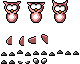
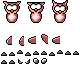
Double 'jump'

Changed region(s): [[0.65, 0.5625, 0.75, 0.6875], [0.35, 0.9062, 0.375, 0.9688], [0.225, 0.9062, 0.25, 0.9688]]

diff --git a/output/src/player.js b/output/src/player.js
@@ -20,12 +20,13 @@ var Player = /** @class */ (function (_super) {
     __extends(Player, _super);
     function Player(x, y) {
         var _this = _super.call(this, x, y) || this;
-        _this.friction = new Vector2(0.15, 0.15);
+        _this.friction = new Vector2(0.125, 0.125);
         _this.hitbox = new Vector2(16, 16);
-        _this.collisionBox = new Vector2(16, 16);
+        _this.collisionBox = new Vector2(12, 16);
         _this.center = new Vector2();
         _this.inCamera = true;
         _this.canJump = false;
+        _this.doubleJump = false;
         _this.jumpTimer = 0;
         _this.jumpMargin = 0;
         _this.sprBody = new Sprite(24, 24);
@@ -35,14 +36,21 @@ var Player = /** @class */ (function (_super) {
         return _this;
     }
     Player.prototype.control = function (ev) {
-        var BASE_GRAVITY = 4.0;
-        var BASE_SPEED = 1.5;
+        var BASE_GRAVITY = 3.0;
+        var BASE_SPEED = 1.25;
         var JUMP_TIME = 15;
+        var DJUMP_TIME = 60;
         this.target.x = ev.getStick().x * BASE_SPEED;
         this.target.y = BASE_GRAVITY;
         var s = ev.getAction("fire1");
-        if (this.jumpMargin > 0 && s == State.Pressed) {
-            this.jumpTimer = JUMP_TIME;
+        var canDoDoubleJump = this.jumpMargin <= 0 && !this.doubleJump;
+        if ((this.jumpMargin > 0 || canDoDoubleJump) &&
+            s == State.Pressed) {
+            this.jumpTimer = canDoDoubleJump ? DJUMP_TIME : JUMP_TIME;
+            if (canDoDoubleJump) {
+                this.speed.y = Math.max(this.speed.y, 0);
+                this.doubleJump = true;
+            }
         }
         else if (this.jumpTimer > 0 && (s & State.DownOrPressed) == 0) {
             this.jumpTimer = 0;
@@ -63,8 +71,6 @@ var Player = /** @class */ (function (_super) {
         if (Math.abs(this.speed.x) >= 0.5) {
             this.eyePos.x = Math.sign(this.speed.x);
         }
-        // TEMP
-        this.sprWing.setFrame(0, 1);
         if (this.canJump) {
             if (Math.abs(this.speed.x) > EPS) {
                 speed = 10 - Math.abs(this.speed.x) * 4;
@@ -85,18 +91,28 @@ var Player = /** @class */ (function (_super) {
                 wingFrame = this.speed.y < 0 ? 1 : 3;
             }
             this.sprBody.setFrame(bodyFrame, 0);
-            this.sprWing.setFrame(wingFrame, 1);
             this.sprFeet.setFrame(bodyFrame, 7);
+            if (!this.doubleJump || this.jumpTimer <= 0) {
+                this.sprWing.setFrame(wingFrame, 1);
+            }
+            else {
+                this.sprWing.animate(1, 1, 4, 4, ev.step);
+            }
         }
     };
     Player.prototype.updateTimers = function (ev) {
-        var JUMP_SPEED = -3.0;
+        var JUMP_SPEED = -2.5;
+        var DOUBLE_JUMP_SPEED = -0.225;
+        var DOUBLE_JUMP_MIN_SPEED = -1.5;
         if (this.jumpMargin > 0) {
             this.jumpMargin -= ev.step;
         }
         if (this.jumpTimer > 0) {
             this.jumpTimer -= ev.step;
-            this.speed.y = JUMP_SPEED;
+            if (this.doubleJump)
+                this.speed.y = Math.max(DOUBLE_JUMP_MIN_SPEED, this.speed.y + DOUBLE_JUMP_SPEED * ev.step);
+            else
+                this.speed.y = JUMP_SPEED;
         }
     };
     Player.prototype.updateLogic = function (ev) {
@@ -125,9 +141,11 @@ var Player = /** @class */ (function (_super) {
         c.fillRect(px + 1, py - 9, 2, 2);
     };
     Player.prototype.slopeCollisionEvent = function (dir, friction, ev) {
-        var JUMP_MARGIN = 10;
+        var JUMP_MARGIN = 12;
         if (dir > 0) {
             this.canJump = true;
+            this.jumpTimer = 0;
+            this.doubleJump = false;
             this.jumpMargin = JUMP_MARGIN;
             this.slopeFriction = friction;
         }

diff --git a/src/player.ts b/src/player.ts
@@ -10,6 +10,7 @@ export class Player extends CollisionObject {
 
 
     private canJump : boolean;
+    private doubleJump : boolean;
     private jumpTimer : number;
     private jumpMargin : number;
 
@@ -25,13 +26,14 @@ export class Player extends CollisionObject {
 
         super(x, y);
 
-        this.friction = new Vector2(0.15, 0.15);
+        this.friction = new Vector2(0.125, 0.125);
         this.hitbox = new Vector2(16, 16);
-        this.collisionBox = new Vector2(16, 16);
+        this.collisionBox = new Vector2(12, 16);
         this.center = new Vector2();
 
         this.inCamera = true;
         this.canJump = false;
+        this.doubleJump = false;
         this.jumpTimer = 0;
         this.jumpMargin = 0;
 
@@ -44,17 +46,27 @@ export class Player extends CollisionObject {
     
     private control(ev : GameEvent) {
 
-        const BASE_GRAVITY = 4.0;
-        const BASE_SPEED = 1.5;
+        const BASE_GRAVITY = 3.0;
+        const BASE_SPEED = 1.25;
         const JUMP_TIME = 15;
+        const DJUMP_TIME = 60;
 
         this.target.x = ev.getStick().x * BASE_SPEED;
         this.target.y = BASE_GRAVITY;
 
         let s = ev.getAction("fire1");
-        if (this.jumpMargin > 0 && s == State.Pressed) {
+        let canDoDoubleJump = this.jumpMargin <= 0 && !this.doubleJump;
 
-            this.jumpTimer = JUMP_TIME;
+        if ( (this.jumpMargin > 0 || canDoDoubleJump) && 
+            s == State.Pressed) {
+
+            this.jumpTimer = canDoDoubleJump ? DJUMP_TIME : JUMP_TIME;
+
+            if (canDoDoubleJump) {
+
+                this.speed.y = Math.max(this.speed.y, 0);
+                this.doubleJump = true;
+            }
         }
         else if (this.jumpTimer > 0 && (s & State.DownOrPressed) == 0) {
 
@@ -86,9 +98,6 @@ export class Player extends CollisionObject {
             this.eyePos.x = Math.sign(this.speed.x);
         }
 
-        // TEMP
-        this.sprWing.setFrame(0, 1);
-
         if (this.canJump) {
 
             if (Math.abs(this.speed.x) > EPS) {
@@ -115,15 +124,25 @@ export class Player extends CollisionObject {
                 wingFrame = this.speed.y < 0 ? 1 : 3;
             }
             this.sprBody.setFrame(bodyFrame, 0);
-            this.sprWing.setFrame(wingFrame, 1);
             this.sprFeet.setFrame(bodyFrame, 7);
+
+            if (!this.doubleJump || this.jumpTimer <= 0) {
+
+                this.sprWing.setFrame(wingFrame, 1);
+            }
+            else {
+
+                this.sprWing.animate(1, 1, 4, 4, ev.step);
+            }
         }
     }
 
 
     private updateTimers(ev : GameEvent) {
 
-        const JUMP_SPEED = -3.0;
+        const JUMP_SPEED = -2.5;
+        const DOUBLE_JUMP_SPEED = -0.225;
+        const DOUBLE_JUMP_MIN_SPEED = -1.5;
 
         if (this.jumpMargin > 0) {
 
@@ -133,7 +152,12 @@ export class Player extends CollisionObject {
         if (this.jumpTimer > 0) {
 
             this.jumpTimer -= ev.step;
-            this.speed.y = JUMP_SPEED;
+
+            if (this.doubleJump)
+                this.speed.y = Math.max(DOUBLE_JUMP_MIN_SPEED, 
+                    this.speed.y + DOUBLE_JUMP_SPEED * ev.step);
+            else
+                this.speed.y = JUMP_SPEED;
         }
     }
 
@@ -176,11 +200,13 @@ export class Player extends CollisionObject {
 
     protected slopeCollisionEvent(dir : number, friction : number, ev : GameEvent) {
 
-        const JUMP_MARGIN = 10;
+        const JUMP_MARGIN = 12;
 
         if (dir > 0) {
 
             this.canJump = true;
+            this.jumpTimer = 0;
+            this.doubleJump = false;
             this.jumpMargin = JUMP_MARGIN;
 
             this.slopeFriction = friction;
